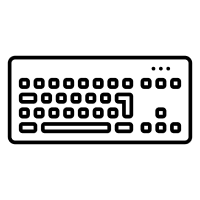
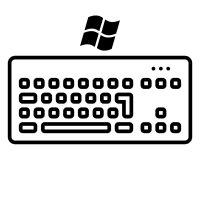
Add DOS

Changed region(s): [[0.39, 0.06, 0.6, 0.27]]

diff --git a/src/index.js b/src/index.js
@@ -87,6 +87,7 @@ const MAX_ACTIVATE_TRIES = 30;
 const FOCUS_CHROMIUM_COMMAND = "wmctrl -a 'Chrom'";
 const TMP_ROM_LOCATION = "/tmp/tmprom";
 const NAND_ROM_FILE_PLACEHOLDER = "ROM_FILE_PLACEHOLDER";
+const GAME_DIRECTORY_PLACEHOLDER = "GAME_DIRECTORY_PLACEHOLDER";
 const BROWSER = "browser";
 const MEDIA = "media";
 const MENU = "menu";
@@ -184,6 +185,7 @@ const SYSTEM_PS2 = "ps2";
 const SYSTEM_PSP = "psp";
 const SYSTEM_WII = "wii";
 const SYSTEM_PC = "pc";
+const SYSTEM_DOS = "dos";
 const UINPUT_PATH = "/dev/uinput";
 const UINPUT_MODE = "w+";
 const VIRTUAL_GAMEPAD_NAME = "GuyStation Gamepad";
@@ -2653,10 +2655,11 @@ async function launchGame(system, game, restart=false, parents=[], dontSaveResol
         let arguments = [];
 
         if( !noGame ) {
-            let romLocation = generateRomLocation( system, game, getGameDictEntry(system, game, parents)[useInstaller ? "installer" : "rom"], parents );
+            let romName = getGameDictEntry(system, game, parents)[useInstaller ? "installer" : "rom"];
+            let romLocation = generateRomLocation( system, game, romName, parents );
             // for pc samba if the user is different for the home directory
             romLocation = romLocation.replace(/^\/home\/[^\/]+/,"/home/"+desktopUser);
-            arguments.push( romLocation );
+            arguments.push( systemsDict[system].romOnly ? romName : romLocation );
 
             if( systemsDict[system].saveDirFlag ) {
                 if( systemsDict[system].optionPrefix ) { arguments.push( systemsDict[system].optionPrefix ); }
@@ -2688,7 +2691,7 @@ async function launchGame(system, game, restart=false, parents=[], dontSaveResol
             }
 
             if( systemsDict[system].extraFlags ) {
-                arguments = arguments.concat( systemsDict[system].extraFlags );
+                arguments = arguments.concat( systemsDict[system].extraFlags.map( el => el.replace(GAME_DIRECTORY_PLACEHOLDER, generateGameDir(system, game, parents)) ) );
             }
 
             if( systemsDict[system].argsFirst ) {
@@ -3503,7 +3506,7 @@ function saveUploadedRom( file, system, game, parents ) {
     fs.renameSync(file.path, romLocation);
 
     fs.writeFileSync(generateGameMetaDataLocation(system, game, parents), JSON.stringify({"rom": file.originalname}));
-    if( system === SYSTEM_PC && !shouldNotExtract(file.originalname) ) { // PC games may be zipped as they require multiple files.
+    if( (system === SYSTEM_PC || system === SYSTEM_DOS) && !shouldNotExtract(file.originalname) ) { // PC games may be zipped as they require multiple files.
         // copy files
         fs.renameSync( romLocation, DOWNLOAD_PC_PREFIX );
         fs.copyFileSync( DOWNLOAD_PC_PREFIX, PC_BACKUP_LOCATION );
@@ -3658,7 +3661,7 @@ async function downloadRomBackground( url, system, game, parents, callback, wait
 
             if( !shouldNotExtract(url) ) {
                 let obj = null;
-                if( system === SYSTEM_PC ) {
+                if( system === SYSTEM_PC || system === SYSTEM_DOS ) {
                     obj = await unpackGetLargestFile( tmpFilePath, tmpFolderPath, false, true, generateGameDir(system, game, parents) );
                     if( obj.candidates && obj.candidates.length ) {
                         candidates = obj.candidates;
@@ -3676,7 +3679,7 @@ async function downloadRomBackground( url, system, game, parents, callback, wait
 
         try {
             let tmpFileExists = fs.existsSync(tmpFilePath);
-            if( tmpFileExists || system === SYSTEM_PC ) {
+            if( tmpFileExists || system === SYSTEM_PC || system === SYSTEM_DOS ) {
                 // If tmp file exists, it either wasn't a pc game, or it wasn't deleted, because it is already an executable (we didn't extract folder contents and clean up)
                 if( tmpFileExists ) {
                     // no filename, means we should just use the file, we didn't extract and find a "largest file", just use the file

diff --git a/assets/index.js b/assets/index.js
@@ -348,7 +348,7 @@ var navigating = false;
 var sendString = "";
 var activePageId = null;
 var nonGameSystems = [];
-var nonSaveSystems = ["browser", "media","pc"];
+var nonSaveSystems = ["browser", "media","pc", "dos"];
 var menuDirection = null;
 var menuMoveSpeedMultiplier = 1;
 var currentSearch = "";

diff --git a/README.md b/README.md
@@ -279,6 +279,7 @@ Multiple monitor support may be limited. GuyStation will aim to use the primary 
 * SNES icon: [Icon-Library.net](https://icon-library.net/icon/nintendo-controller-icon-14.html)
 * NES icon: [Icon-Library.net](https://icon-library.net/icon/nes-icon-22.html)
 * Keyboard icon: [Yorlmar Campos](https://thenounproject.com/Yorlmar%20Campos/)
+* Windows icon: [icons8](https://www.iconsdb.com/black-icons/os-windows-icon.html)
 * Game Boy Advance emulator: [VisualBoyAdvance-m](https://vba-m.com/)
 * DS emulator: [DeSmuMe](http://desmume.org/)
 * Nintendo 64 emulator: [Mupen64Plus](https://mupen64plus.org/)
